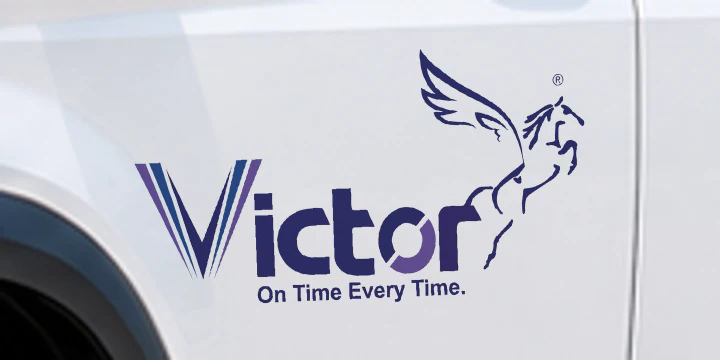
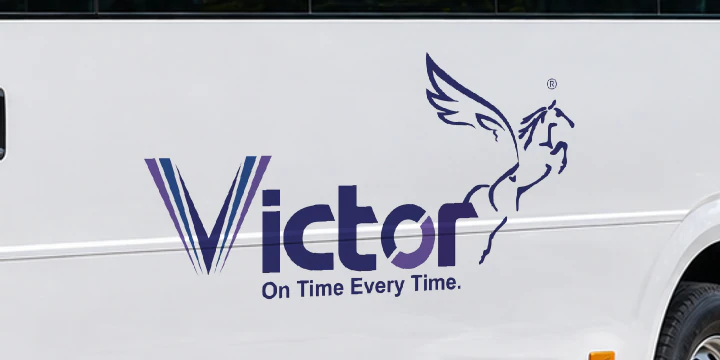
updated fleet images

diff --git a/src/components/fleet/FleetPhoto.tsx b/src/components/fleet/FleetPhoto.tsx
@@ -58,9 +58,10 @@ export default function FleetPhoto({ vehicle }: { vehicle: FleetVehicle }) {
           {expanded && (
             <>
               <Image src={vehicle.image} alt={vehicle.imageAlt} width={1600} height={900} className="h-auto w-full rounded-lg" />
-              <div className="mt-3 grid grid-cols-1 gap-3 sm:grid-cols-2">
+              <div className={`mt-3 grid grid-cols-1 gap-3 ${details.headerImage ? "sm:grid-cols-3" : "sm:grid-cols-2"}`}>
                 {[
-                  { image: details.doorImage, label: "Victor Mobility · On Time Every Time." },
+                  { image: details.doorImage, label: details.headerImage ? "Victor logo below the passenger windows" : "Victor Mobility · On Time Every Time." },
+                  ...(details.headerImage ? [{ image: details.headerImage, label: "Victor logo above the windshield" }] : []),
                   { image: details.plateImage, label: details.plateText },
                 ].map(({ image, label }) => (
                   <Image key={image} src={image} alt={label} width={720} height={360} className="h-auto w-full rounded-lg" />

diff --git a/src/types/content.ts b/src/types/content.ts
@@ -53,6 +53,7 @@ export interface FleetVehicle {
   imageAlt: string;
   imageDetails?: {
     doorImage: string;
+    headerImage?: string;
     plateImage: string;
     plateText: string;
   };

diff --git a/docs/fleet-image-sources.md b/docs/fleet-image-sources.md
@@ -1,12 +1,12 @@
 # Victor Mobility — Fleet Model Reference Imagery Provenance & Attribution
 
-## India forecourt illustrations, 9 November 2026
+## India forecourt illustrations, 9–10 November 2026
 
-The India Fleet grid reads `fleetVehicles` in `src/content/india.json`. Fourteen entries use newly generated vehicle illustrations in `public/images/fleet/forecourt/`. The supplied Kia photograph established the camera angle, pearl-white finish, architecture and daylight. Each vehicle was generated with a clean front door and a blank green plate. The supplied Victor artwork and separately typeset model name were then fitted to the door and plate on each vehicle. The full-size image and its two detail views use the same placements.
+The India Fleet grid reads `fleetVehicles` in `src/content/india.json`. All 15 entries use vehicle illustrations in `public/images/fleet/forecourt/`. The supplied Kia photograph established the camera angle, pearl-white finish, architecture and daylight. Passenger cars carry the supplied Victor artwork on their front doors. The two Urbania vans and both buses carry the separate official artwork on the passenger-side panel and front header as shown in the bus placement reference. The green plates were typeset separately.
 
 The main images are 1600 × 900 WebP files. The 720 × 360 door and plate details load when a visitor enlarges an image. These illustrations do not document a particular Victor vehicle, trim level or allocation. The two Force Urbania cards have separate medium- and long-wheelbase illustrations.
 
-The SML 22-seater lists the manufacturer and capacity only. Its existing placeholder remains pending the exact model. No substitute bus has been selected.
+The SML 22-seater uses a representative staff bus illustration. The card and display plate identify SML. The exact trim is unconfirmed. The S7 staff bus was used as a visual reference because the manufacturer lists a 22-passenger version. [SML staff bus specifications](https://smlmahindra.com/IN/product/buses/s7-bus-2)
 
 The registry below records earlier assets outside the `forecourt` directory. Its historical credits apply to those files.
 

diff --git a/docs/handoff.md b/docs/handoff.md
@@ -1,5 +1,13 @@
 # Handoff
 
+## 10 November 2026 — Bus and Urbania branding
+
+The 12- and 16-seat Force Urbania vans, Tata Marcopolo 40-seater and SML 22-seater now have separate 1600 × 900 WebP illustrations. The customer’s bus photo guided the placement. Both decals on every vehicle use the separately supplied original logo, fitted to the passenger side and front header. The detail viewer includes the two decals and the green display plate. The SML plate reads “SML” because the exact model is unspecified.
+
+The production build generated all 73 pages. Chromium checked all 15 fleet cards, their detail images, filters, aspect ratios and keyboard focus at 1440, 390 and 320 pixels. The four updated cards retain their original names, seating information and enquiry targets.
+
+[Desktop fleet](screenshots/fleet-bus-branding-desktop.png) · [Mobile fleet](screenshots/fleet-bus-branding-mobile.png) · [Desktop SML details](screenshots/fleet-bus-branding-desktop-detail.png) · [Mobile SML details](screenshots/fleet-bus-branding-mobile-detail.png)
+
 ## 9 November 2026 — India Fleet illustrations
 
 Fourteen of the 15 cards on `/india/fleet` now show a new pearl-white vehicle on the reference forecourt. Each 1600 × 900 WebP includes the original door artwork and hand-placed, perspective-fitted model lettering. The main images range from 158 to 204 KiB. Selecting a photo opens the vehicle and higher-resolution details of the same door and plate. On narrower screens the contact links sit in their own row so they cannot cover the vehicle.

diff --git a/docs/current-task.md b/docs/current-task.md
@@ -1,6 +1,6 @@
-# Current task — India Fleet photography, 9 November 2026
+# Current task — India bus and Urbania branding, 10 November 2026
 
-The India Fleet page now uses a matching set of branded forecourt illustrations for 14 named vehicle entries. Both Urbania sizes are identified in the fleet data. The SML 22-seat bus needs an exact model before its illustration can be produced. See the November 9 entry in [the handoff](handoff.md) for review evidence.
+The two Urbania sizes, Tata Marcopolo and SML 22-seater use the supplied Victor artwork on the front header and passenger side. All 15 fleet cards now have forecourt illustrations. The SML illustration represents the confirmed manufacturer and capacity. Its exact model is still unspecified.
 
 ## Previous task — Diwali banner, 8 November 2026
 
